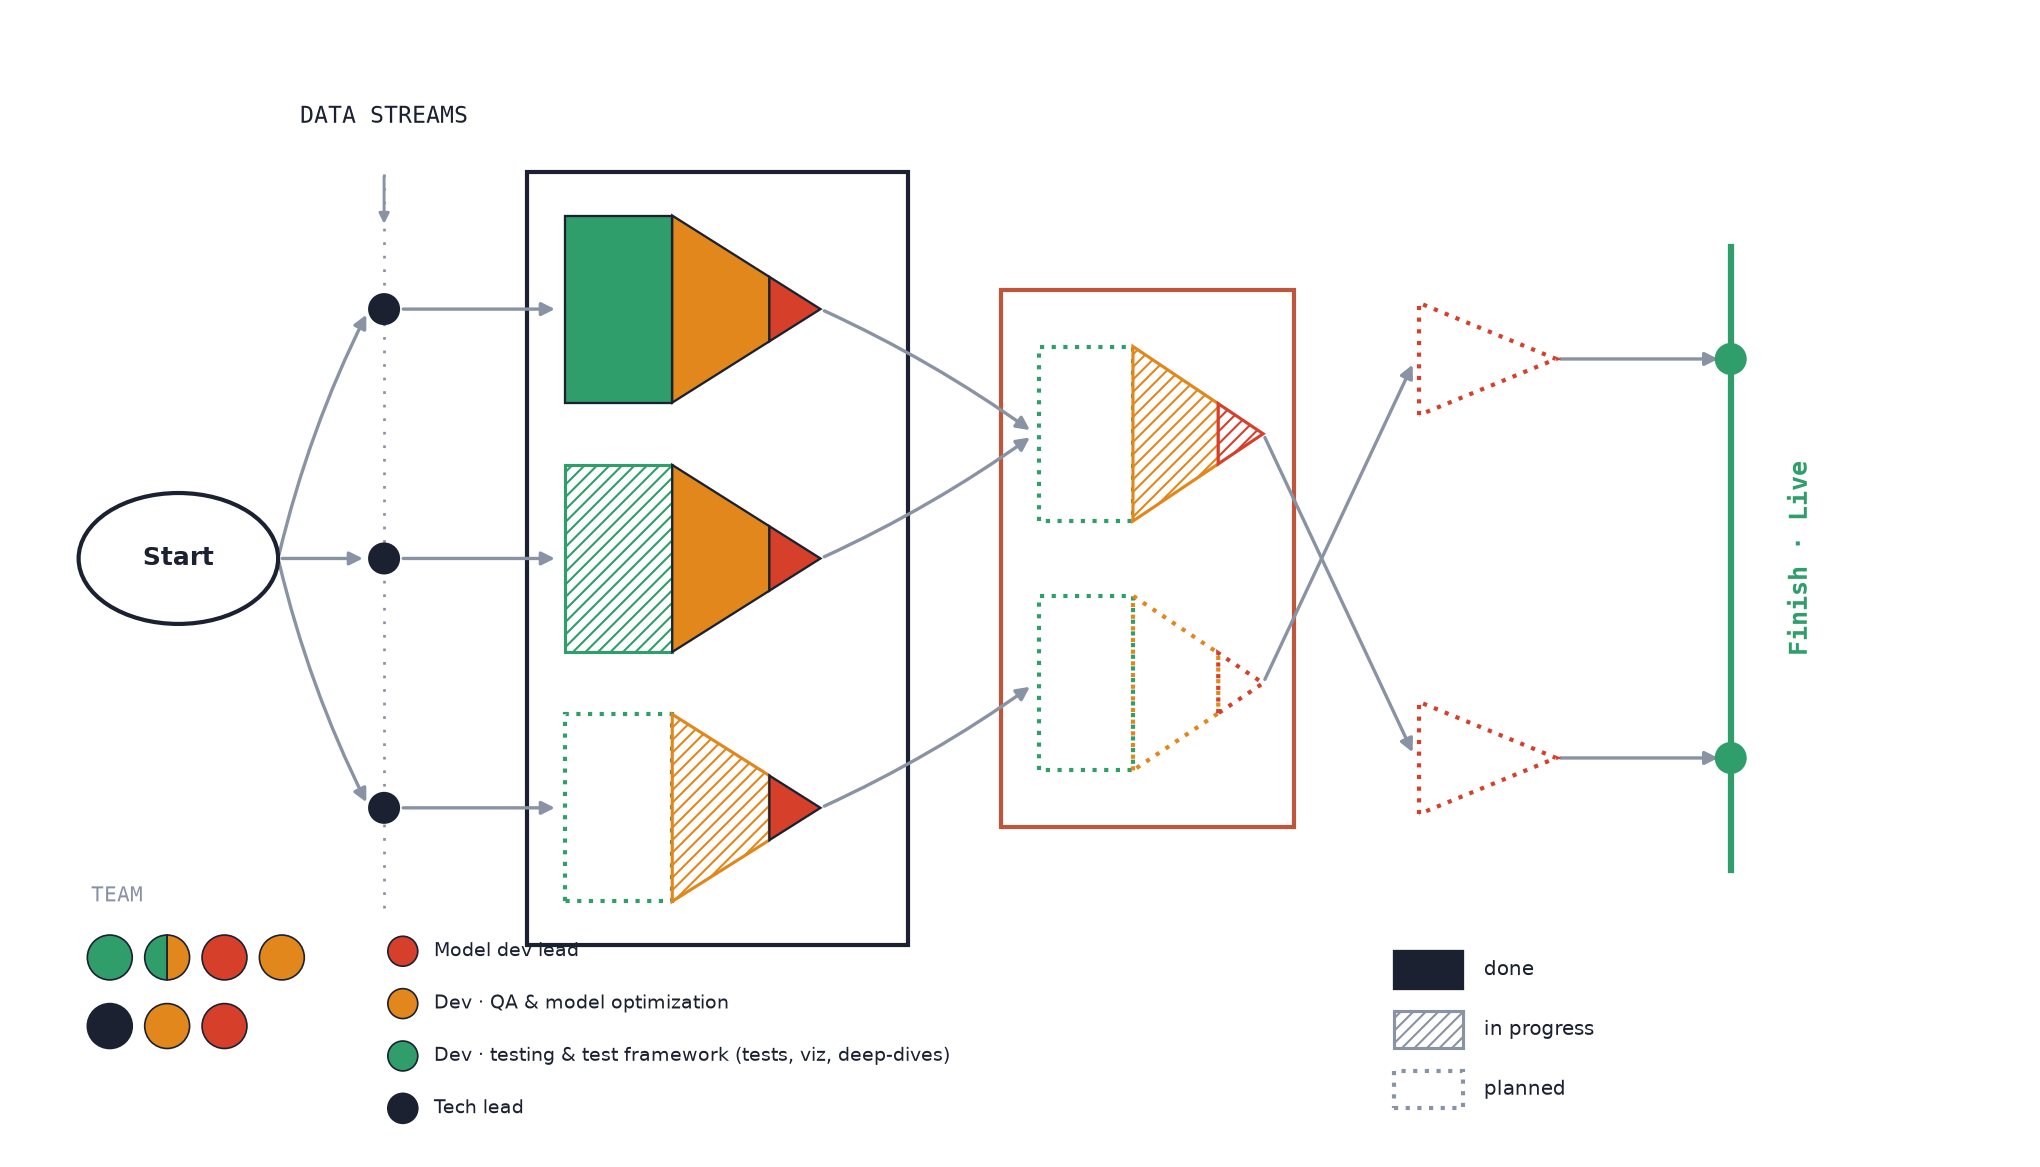
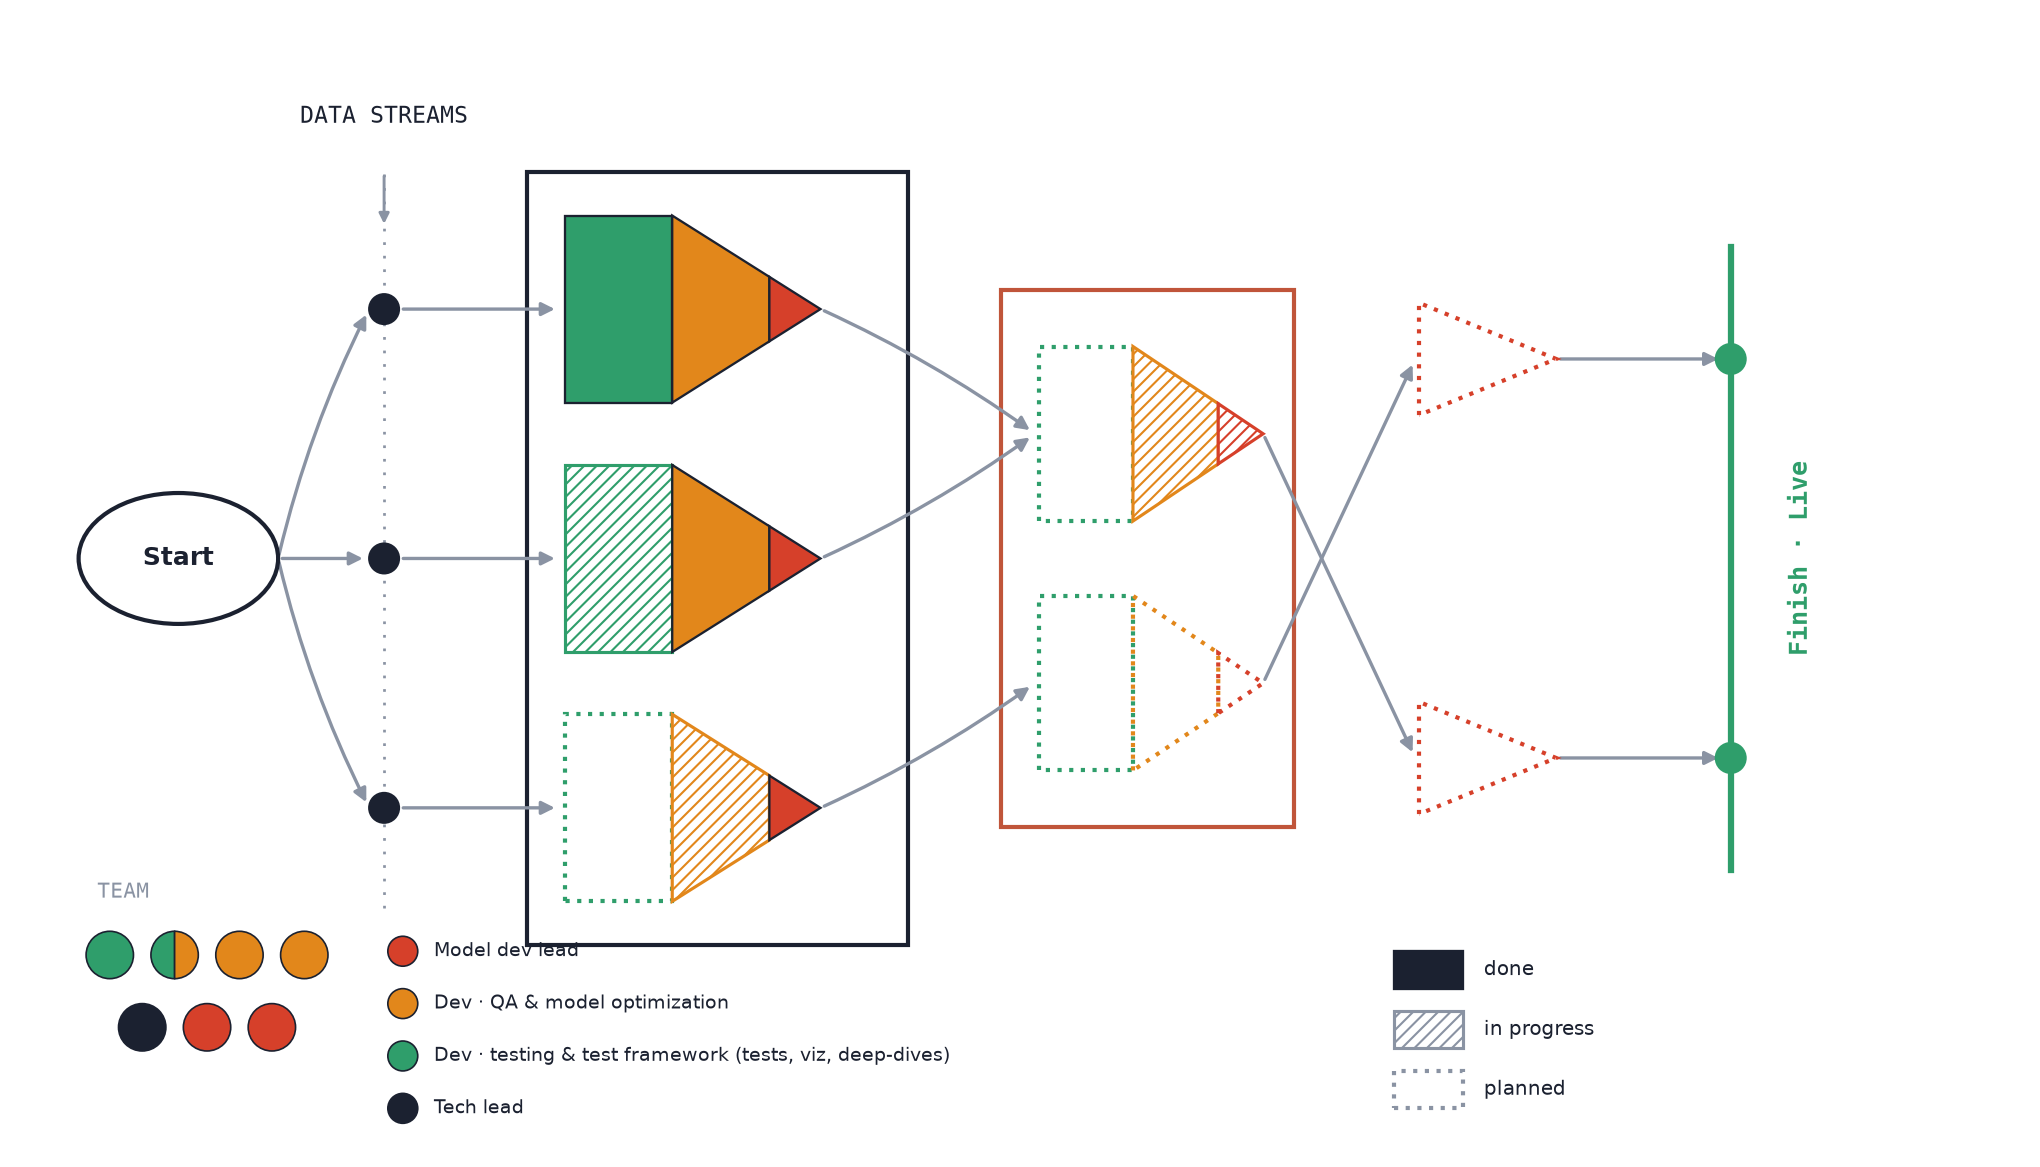
docs(diagram): organize team circles - grouped by role, aligned
Dev pod on top (testing, shared, QA/optimize x2), leads centred below (tech lead
+ model dev leads), evenly spaced instead of a 4-over-3 with a gap.

Changed region(s): [[0.0309, 0.8021, 0.1853, 0.9254], [0.0309, 0.7404, 0.0618, 0.7712]]

diff --git a/tools/pipeline_schematic.py b/tools/pipeline_schematic.py
@@ -179,13 +179,17 @@ def _split_circle(ax, x, y, r, c1, c2):
 def _role_circles(ax):
     """The team: 7 member circles (one a green/orange split for a shared role),
     plus a colour -> role key."""
-    r, dx = 0.18, 0.46
-    ax.text(0.55, 1.95, "TEAM", fontsize=10, color=MUTED, family="monospace")
-    # 7 members: green x1, split x1, red x2, orange x2, black x1
-    top = [(0.7, GREEN), (0.7 + dx, "split"), (0.7 + 2 * dx, RED), (0.7 + 3 * dx, AMBER)]
-    bot = [(0.7, BLACK), (0.7 + dx, AMBER), (0.7 + 2 * dx, RED)]
-    for y, row in ((1.5, top), (0.95, bot)):
-        for x, c in row:
+    r, dx = 0.19, 0.52
+    ax.text(0.6, 1.98, "TEAM", fontsize=10, color=MUTED, family="monospace")
+    # grouped by role: dev pod on top, leads centred below
+    top = [GREEN, "split", AMBER, AMBER]          # testing · shared · QA/opt · QA/opt
+    bot = [BLACK, RED, RED]                        # tech lead · model dev leads
+    xs_top = [0.7 + i * dx for i in range(len(top))]
+    span = xs_top[-1] - xs_top[0]
+    xs_bot = [(xs_top[0] + span / 2) + (i - (len(bot) - 1) / 2) * dx
+              for i in range(len(bot))]
+    for y, xs, row in ((1.52, xs_top, top), (0.94, xs_bot, bot)):
+        for x, c in zip(xs, row):
             if c == "split":
                 _split_circle(ax, x, y, r, GREEN, AMBER)
             else:
